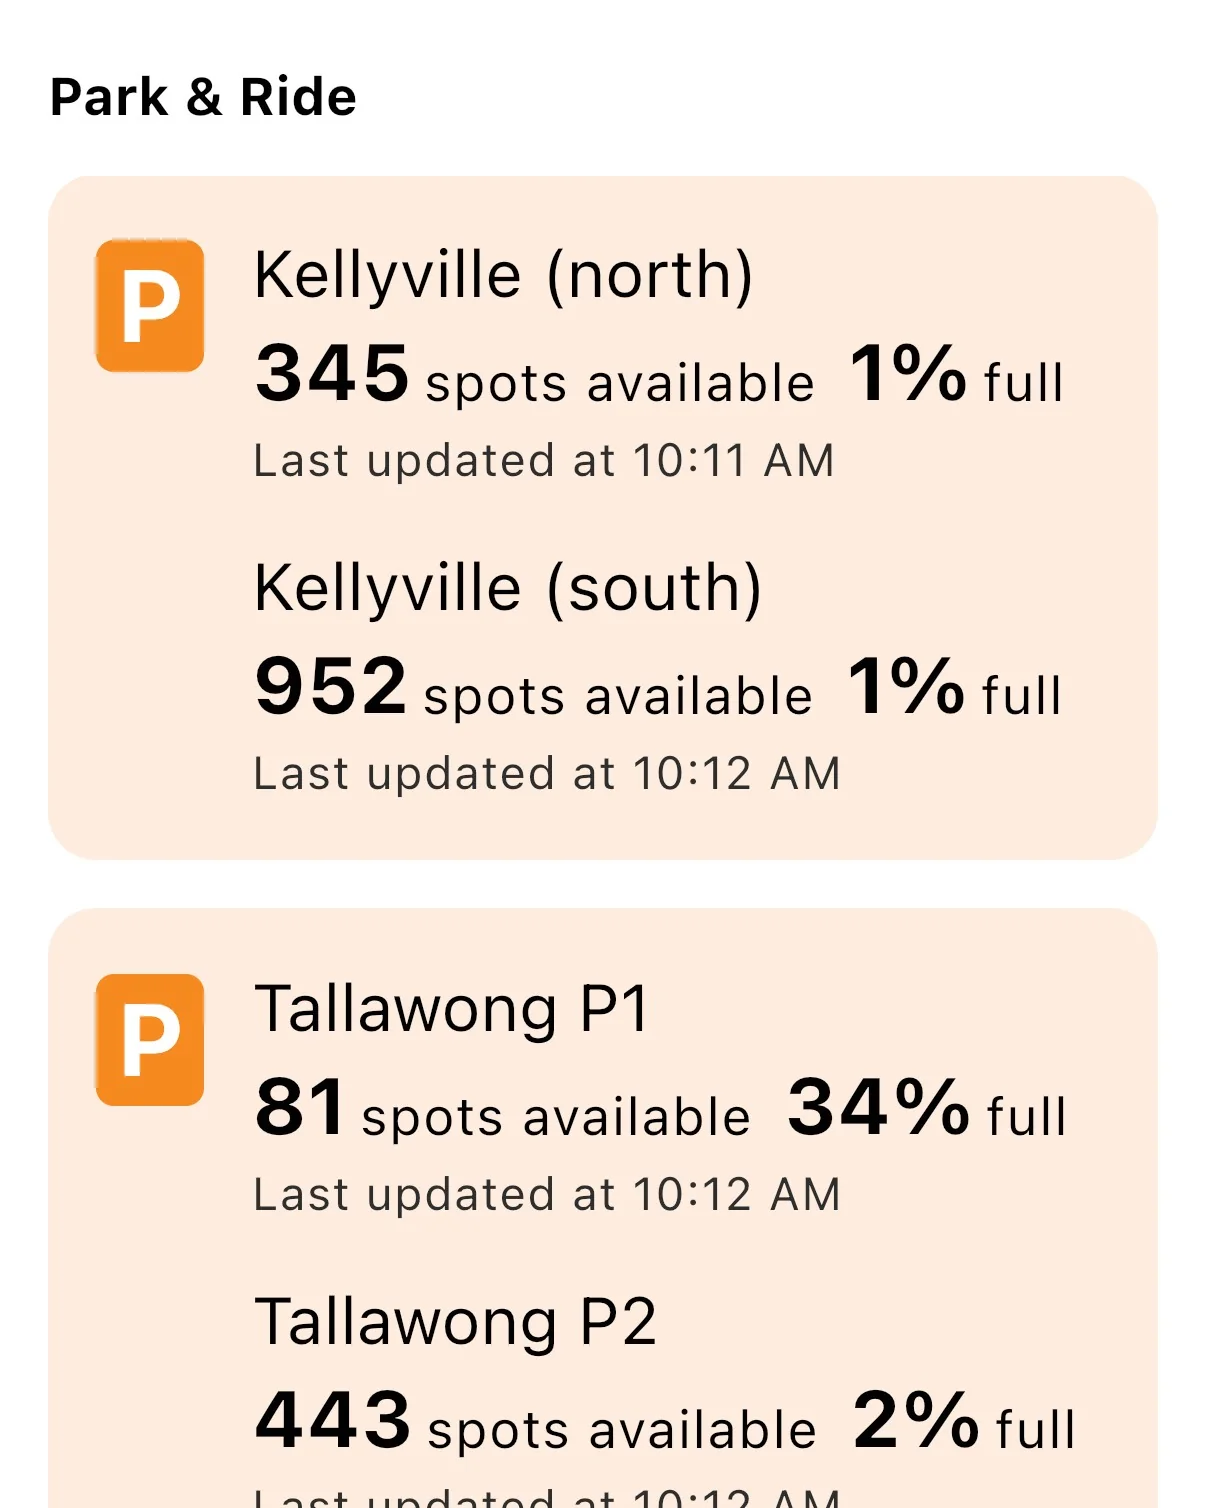
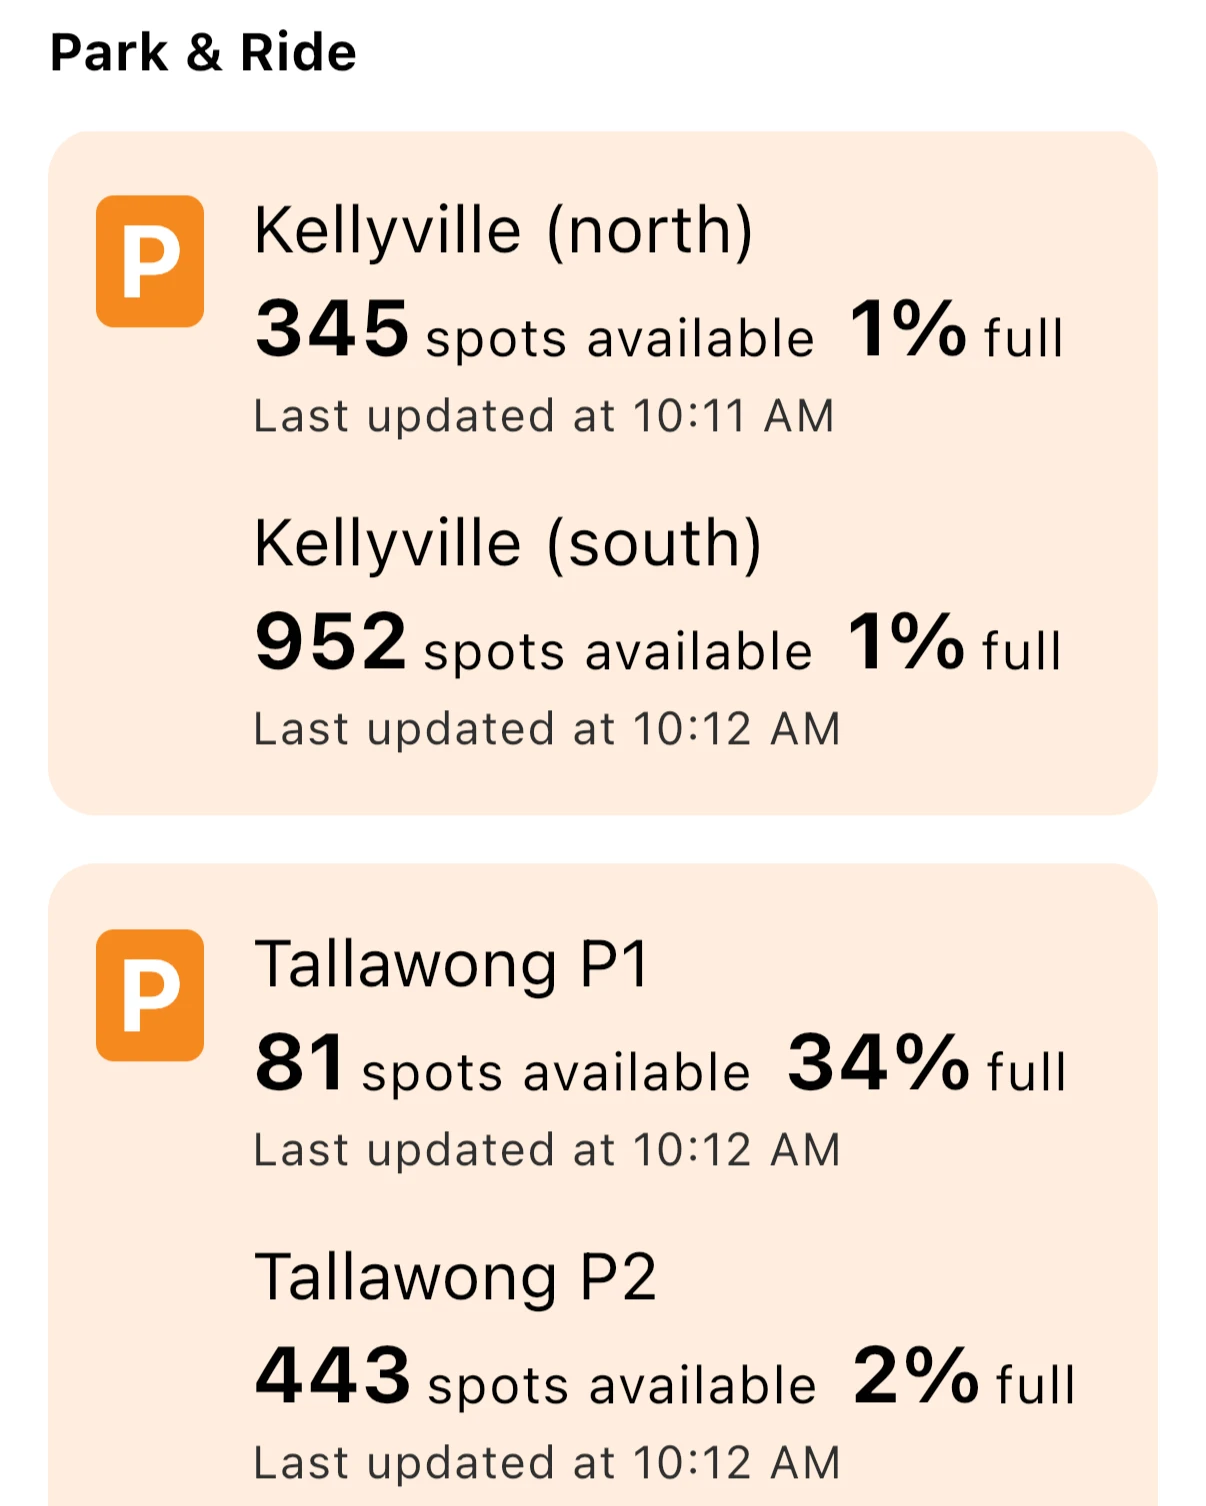
Images · swap hero + parking to new screenshots, drop mobile picture sources
- Replace hero.webp and park_ride.webp with new screenshots from Laptop/NEW/
- Restore old hero as saved_trips.webp (feature block 1 keeps its original image)
- Remove <picture>/<source> mobile overrides from park_ride, realtime,
  stop_labels — plain <img> + object-fit:cover auto-crops correctly
- Feature phone max-width 380px → 340px to match hero phone wrap

diff --git a/index.html b/index.html
@@ -2406,7 +2406,7 @@
       min-height: 0;
       perspective: none;
       width: 100%;
-      max-width: 380px;
+      max-width: 340px;
       margin: 0 auto;
       aspect-ratio: 4/5;
       display: block;
@@ -2651,7 +2651,7 @@
         <div class="phone">
           <div class="notch"></div>
           <div class="screen screen--shot">
-            <img src="images/hero.webp" alt="KRAIL · saved trips home screen with colour-coded tiles" loading="lazy" />
+            <img src="images/saved_trips.webp" alt="KRAIL · saved trips home screen with colour-coded tiles" loading="lazy" />
           </div>
         </div>
       </div>
@@ -2674,10 +2674,7 @@
         <div class="phone">
           <div class="notch"></div>
           <div class="screen screen--shot">
-            <picture>
-              <source srcset="images/mobile/park_ride.webp" media="(max-width: 640px)" type="image/webp">
-              <img src="images/park_ride.webp" alt="KRAIL · live Park &amp; Ride availability across Sydney stations" loading="lazy" />
-            </picture>
+            <img src="images/park_ride.webp" alt="KRAIL · live Park &amp; Ride availability across Sydney stations" loading="lazy" />
           </div>
         </div>
       </div>
@@ -2734,10 +2731,7 @@
         <div class="phone">
           <div class="notch"></div>
           <div class="screen screen--shot">
-            <picture>
-              <source srcset="images/mobile/realtime.webp" media="(max-width: 640px)" type="image/webp">
-              <img src="images/realtime.webp" alt="KRAIL · live departure board straight from the platform feed" loading="lazy" />
-            </picture>
+            <img src="images/realtime.webp" alt="KRAIL · live departure board straight from the platform feed" loading="lazy" />
           </div>
         </div>
       </div>
@@ -2760,10 +2754,7 @@
         <div class="phone">
           <div class="notch"></div>
           <div class="screen screen--shot">
-            <picture>
-              <source srcset="images/mobile/stop_labels.webp" media="(max-width: 640px)" type="image/webp">
-              <img src="images/stop_labels.webp" alt="KRAIL · custom labels turn stop names into Home, Work, Gym" loading="lazy" />
-            </picture>
+            <img src="images/stop_labels.webp" alt="KRAIL · custom labels turn stop names into Home, Work, Gym" loading="lazy" />
           </div>
         </div>
       </div>